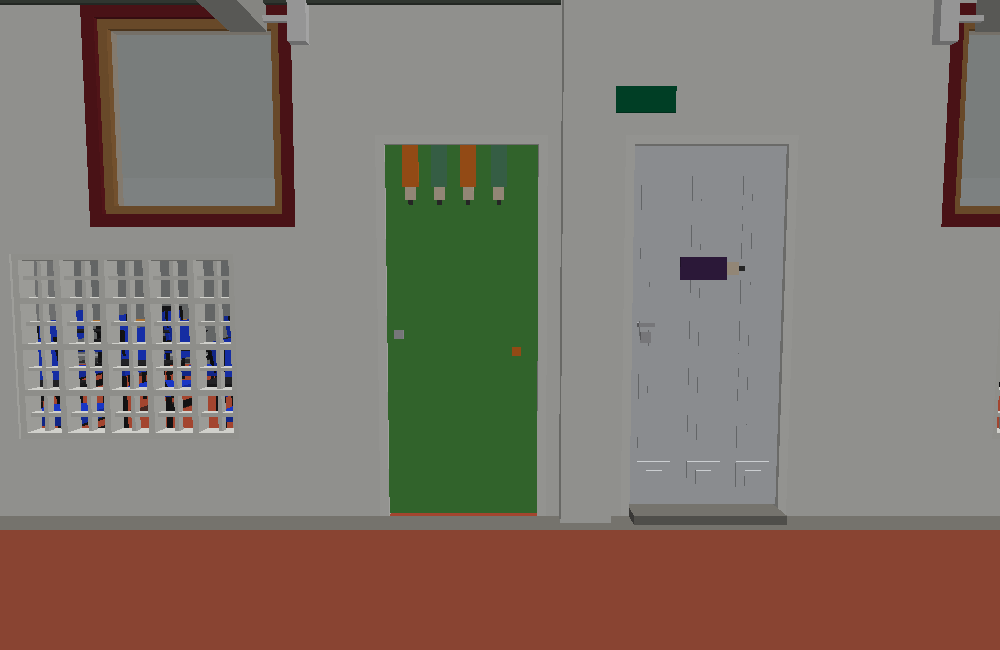
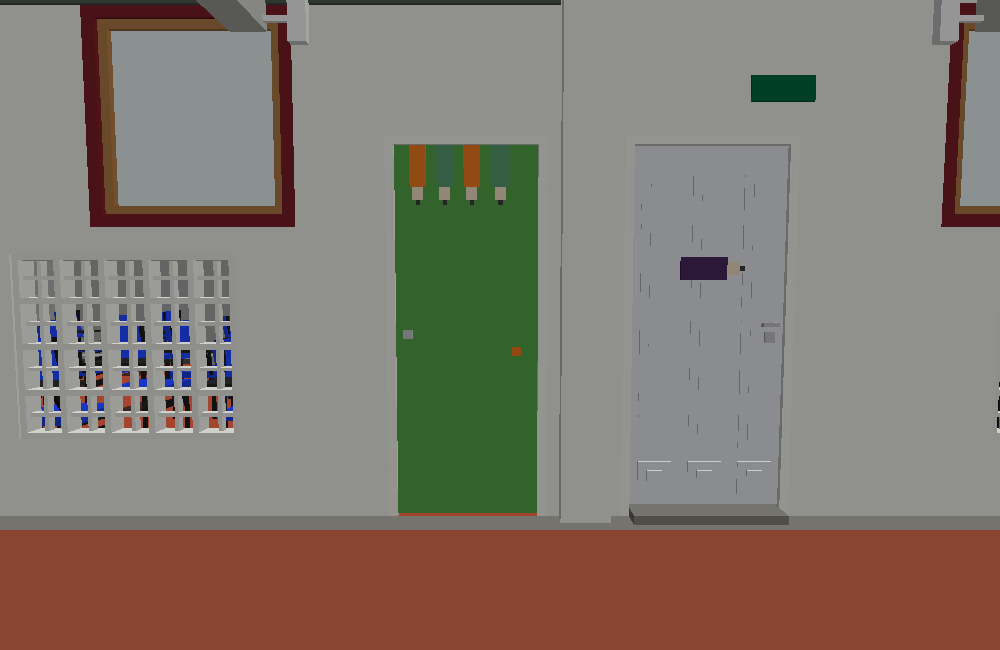
Corregir orientación de letrero y manija 7B, tablero en medianera y detalles de revisión
- Tablero en la pared medianera y escritorio en la esquina trasera (imagen 1).
- Letrero de evacuación y manija de 7B calculados en coordenadas de mundo (ya no se reflejan).
- Varillas de luminarias hasta la losa; interruptor sobre muro macizo; canaleta en tres tramos.
- Anchos de puerta distintos (6B 0,90 m, 7B 0,96 m); vidrio opaco; rejilla de calado dentro del hueco.

Claude-Session: https://claude.ai/code/session_012zkZC8vQMW6UFPq5rDa9YT

diff --git a/README.md b/README.md
@@ -43,20 +43,28 @@ Sistema de referencia fijo: observador de pie en el corredor mirando la fachada 
 - **Interior (render).** La pared con la ventana de marco rojo y el aire acondicionado es la
   **fachada** vista desde dentro (coincide con la ventana de marco de madera de la foto exterior).
   La cámara del render está junto a la puerta mirando hacia la pared extrema: los cinco carteles
-  colgados del riel están en la **pared extrema opuesta a la medianera**, el escritorio de madera
-  aparece al fondo a la derecha junto a la **pared trasera** (opuesta a la fachada) y los pupitres
-  azules miran hacia la cámara, es decir, hacia la **medianera** (lado de la puerta). En la imagen
-  del escritorio, la silla negra está pegada a la pared trasera y el tablero blanco está en esa
-  misma pared a la derecha del escritorio (las pendientes de la línea de zócalo y del borde del
-  tablero muestran la esquina trasera-extrema del salón detrás del escritorio). El script
-  reproduce exactamente esa relación.
+  colgados del riel están en la **pared extrema opuesta a la medianera**, la pared de la derecha es
+  la **pared trasera** (opuesta a la fachada) y los pupitres azules miran hacia la cámara, es decir,
+  hacia la **medianera**, que es el frente de la clase (la pared de la puerta).
+- **Escritorio y tablero (imagen 1).** Las pendientes de la línea de zócalo y del borde del tablero
+  muestran una esquina justo detrás del escritorio: la silla negra está contra la pared trasera y el
+  tablero empieza en esa esquina sobre la pared perpendicular. Combinado con lo anterior, el tablero
+  queda en la **medianera** (desde la esquina trasera hacia la fachada, 2,4 m) y el escritorio en la
+  **esquina trasera junto a la medianera**, con la silla entre el escritorio y la pared trasera. Así
+  los pupitres miran al tablero y la puerta queda en la esquina delantera de esa misma pared. (En el
+  render interior el escritorio aparece al fondo a la derecha; se prioriza la imagen 1, que es la
+  referencia explícita del escritorio y el tablero. Para moverlo basta cambiar una línea en
+  `ETAPA 7`.)
 - **7B** se construye como espejo de 6B respecto a la medianera (misma geometría, posiciones
-  reflejadas, objetos no reflejados): puerta junto a la medianera, tablero y escritorio en la
-  pared trasera, carteles en la pared extrema derecha, pupitres mirando hacia la medianera.
+  reflejadas, objetos no reflejados): puerta junto a la medianera, tablero y escritorio contra la
+  medianera, carteles en la pared extrema derecha, pupitres mirando hacia la medianera. Los dos
+  tableros quedan espalda con espalda en el muro compartido.
 
 ## Elementos no visibles y valores por defecto (no confirmados por las fotos)
 
 - Largo interior 7,5 m, fondo 6,5 m, altura libre 3,0 m, muros 0,15 m (estimados por proporción).
+- Anchos de puerta: 6B 0,90 m de hueco (hoja 0,80 m, la verde se ve algo más estrecha), 7B 0,96 m
+  (hoja 0,86 m); ambas de 2,15 m de alto.
 - Fachada de 7B a la derecha de su puerta (ventana, calado, aire acondicionado) = espejo de 6B.
 - Fachada de 6B a la izquierda de la ventana: muro blanco liso (en la foto se corta ahí; el
   fragmento de mural pintado del borde izquierdo no se reproduce).
